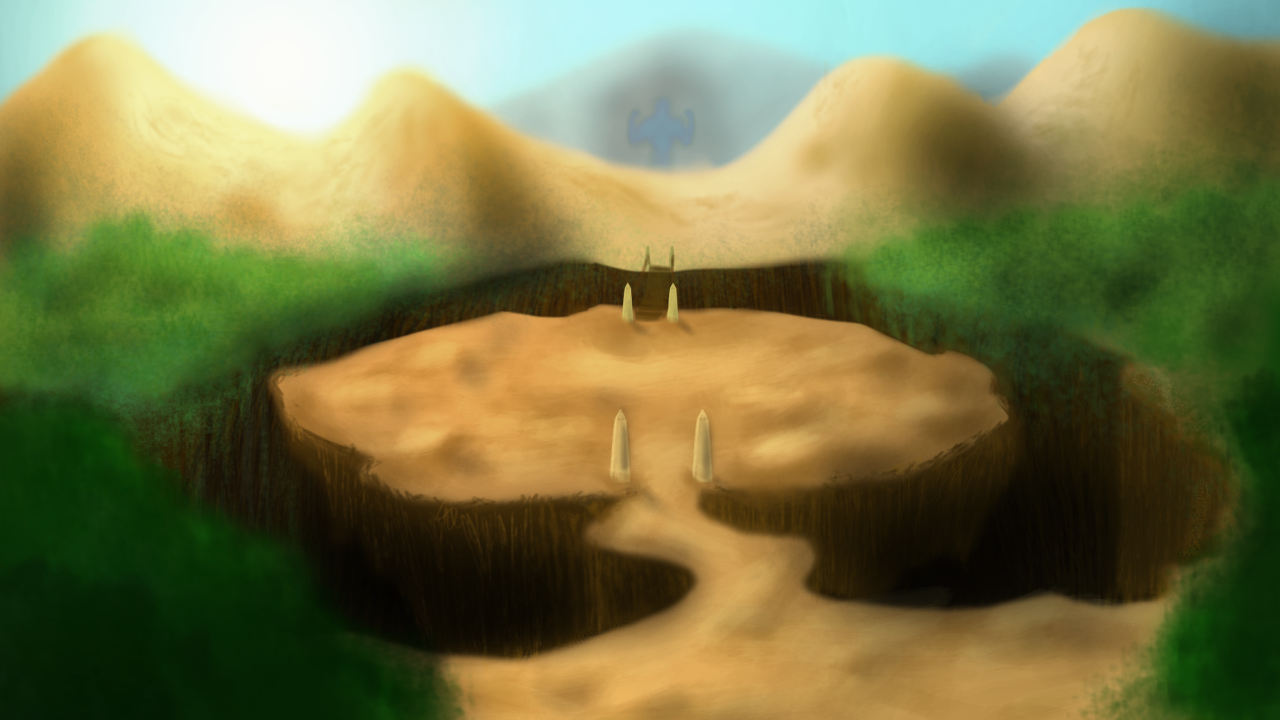
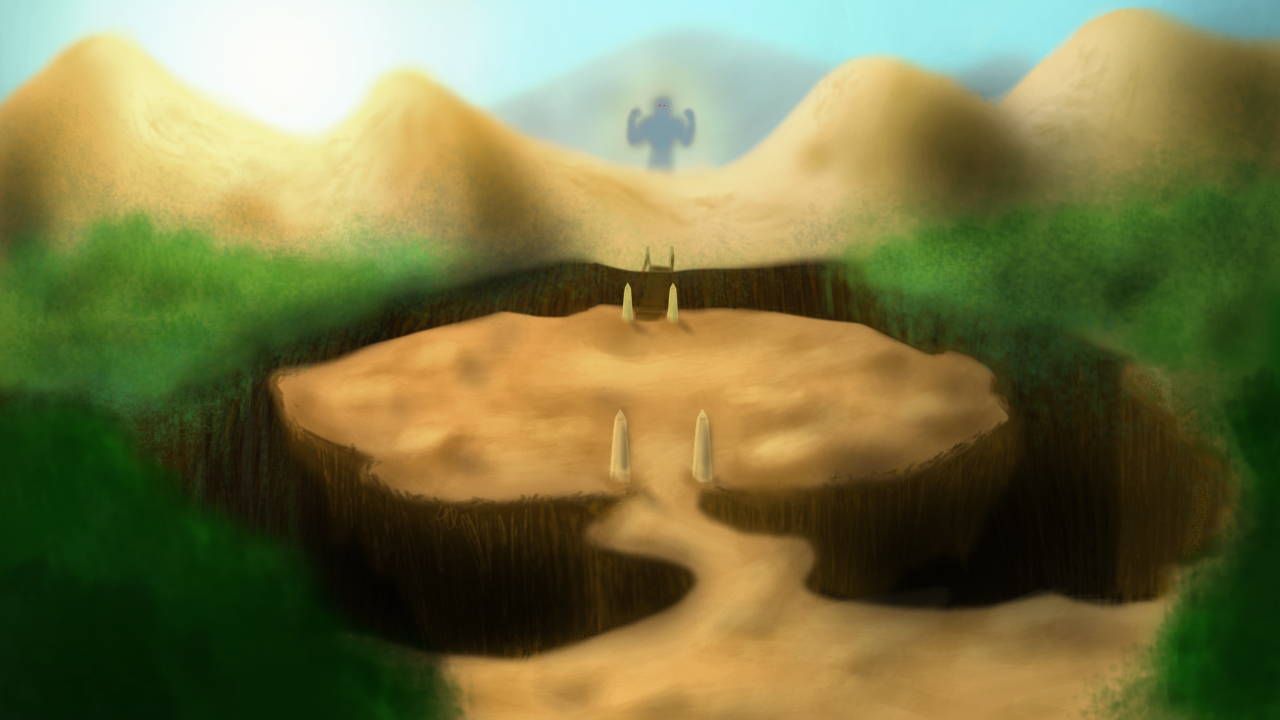
The ninja is a ninja is a ninja is a ninja is a ninja is a ninja is a ninja is a ninja is a ninja is a ninja is a ninja is a ninja is a ninja is a ninja is a ninja is a ninja is a ninja is a ninja is a ninja is a ninja is a ninja is a ninja is a ninja is a ninja is a ninja is a ninja is a ninja is a

Changed region(s): [[0.4375, 0.0611, 0.5938, 0.2444]]

diff --git a/Hats/Ninja.cs b/Hats/Ninja.cs
@@ -7,6 +7,9 @@
  * To change this template use Tools | Options | Coding | Edit Standard Headers.
  */
 using System;
+using NHTI.Entities;
+using NHTI.Entities.Logics;
+using Punk;
 
 namespace NHTI.Hats
 {
@@ -15,23 +18,53 @@ namespace NHTI.Hats
 	/// </summary>
 	public class Ninja : Hat
 	{
-		public Ninja()
+		int maxNumShots = 3;
+		int numShots = 3;
+		float shotChargeTime = .75f;
+		float timabyby = 0;
+		float speed = 10f;
+		
+		public Ninja(Player p)
 		{
+			parent = p;
 		}
 		
 		public override void update()
 		{
-			throw new NotImplementedException();
+			timabyby += FP.Elapsed;
+			if(timabyby >= shotChargeTime)
+			{
+				timabyby -= shotChargeTime;
+				numShots += 1;
+				if(numShots > maxNumShots)
+					numShots = maxNumShots;
+			}
 		}
 		
 		public override string attackStart()
 		{
-			throw new NotImplementedException();
+			//throw in only x weally fast or the other way of the x weally fast
+			if(numShots > 0)
+			{
+				//find out the direction to shoot
+				int x = parent.World.MouseX - parent.X > 0 ? 1 : -1;
+				
+				var shurukinian = new Shuriken(x * speed, 0);
+				shurukinian.X = parent.X - 20;
+				shurukinian.Y = parent.Y - 80;
+				parent.World.Add(shurukinian);
+				
+				numShots -= 1;
+				
+				return "Release";
+			}
+			
+			return "";
 		}
 		
 		public override string attackEnd()
 		{
-			throw new NotImplementedException();
+			return "Idle";
 		}
 	}
 }

diff --git a/Entities/Shuriken.cs b/Entities/Shuriken.cs
@@ -1,0 +1,41 @@
+/*
+ * Created by SharpDevelop.
+ * User: nhti
+ * Date: 11/24/2013
+ * Time: 7:20 AM
+ * 
+ * To change this template use Tools | Options | Coding | Edit Standard Headers.
+ */
+using System;
+using Punk;
+
+namespace NHTI.Entities.Logics
+{
+	/// <summary>
+	/// Description of Shuriken.
+	/// </summary>
+	public class Shuriken : Projectile
+	{
+		public Shuriken(float velX, float velY)
+			:base(velX, velY)
+		{
+			spritemap = makeSpritemap(null);
+			spritemap.Add("Ninja", FP.Frames(18,19), 20, true);
+			
+			AddGraphic(spritemap);
+			
+			spritemap.Play("Ninja");
+			
+			_onCollide = onCollide;
+			
+			physics.maxXVelocity = 30;
+		}
+		
+		public void onCollide(Entity e)
+		{
+			World.Remove(this);
+		}
+	}
+		
+		
+}

diff --git a/Entities/Player.cs b/Entities/Player.cs
@@ -137,7 +137,7 @@ namespace NHTI.Entities
 			this.SetHitbox(48, 100, 24, 100);
 			
 			//Add a hat
-			hat = new NoHat(this);
+			hat = new Ninja(this);
 		}
 		
 		public override void Update()
@@ -169,9 +169,12 @@ namespace NHTI.Entities
 			}
 			
 			//Attack
+			hat.update();
 			if(Input.Pressed(Mouse.Button.Left))
 			{
-				faceSprites.Play(hat.attackStart());
+				string nextAnim = hat.attackStart();
+				if(nextAnim != "")
+					faceSprites.Play(nextAnim);
 				isAttacking = true;
 			}
 			else if(Input.Released(Mouse.Button.Left))

diff --git a/Entities/Projectile.cs b/Entities/Projectile.cs
@@ -27,6 +27,7 @@ namespace NHTI.Entities
 		public Spritemap spritemap;
 		protected delegate void d_onCollide(Entity e);
 		protected d_onCollide _onCollide;
+		protected PhysicsBody physics;
 		
 		public Projectile(float velX, float velY)
 		{
@@ -34,7 +35,7 @@ namespace NHTI.Entities
 			CenterOrigin();
 			SetHitbox(41,41,20,20);
 			
-			PhysicsBody physics = new PhysicsBody();
+			physics = new PhysicsBody();
 			physics.velocity = new Vector2f(velX, velY);
 			physics.Colliders.Add("platform");
 			physics.Colliders.Add("wall");
